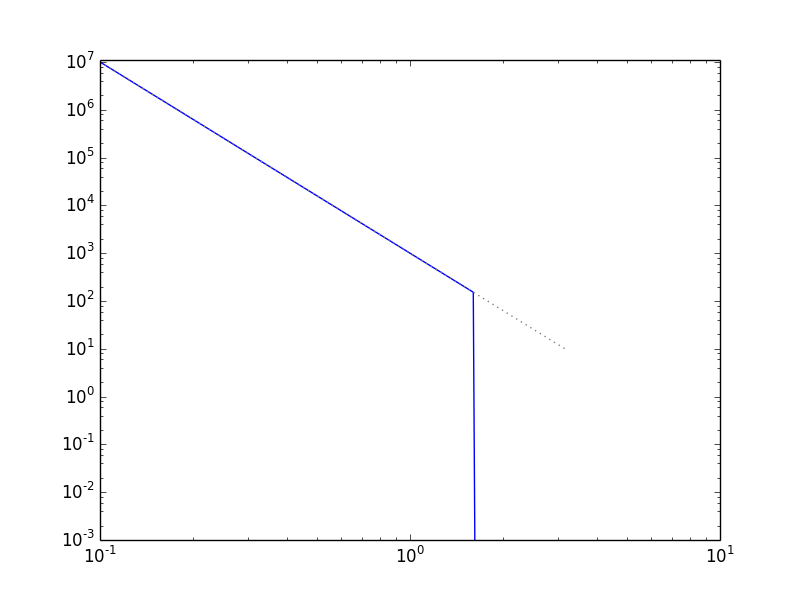
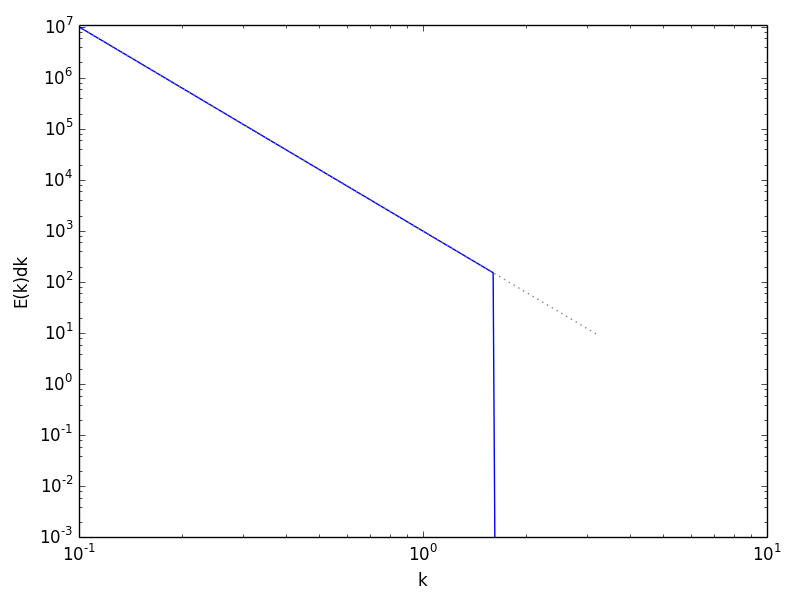
more notes

diff --git a/overview.tex b/overview.tex
@@ -17,6 +17,7 @@
 \usepackage{sectsty}
 \allsectionsfont{\sffamily}
 
+\usepackage{graphicx}
 
 
 \begin{document}
@@ -119,16 +120,38 @@ P \sim k^{-\eta}
 This is accomplished by setting the amplitude of each mode to yield
 this power.  Our function is:
 \begin{equation}
-\phi(x) = \sum_{m=1}^{N_\mathrm{modes}} a_m \sin \left ( \frac{2\pi m x}{L}\right )
+f(x) = \sum_{m=1}^{N_\mathrm{modes}} a_m \sin \left ( \frac{2\pi m x}{L}\right )
 \end{equation}
 where $L$ is the width of the physical domain, and 
 \begin{equation}
 a_m = \left (A_0 k^{-\eta} \right )^{1/2}
 \end{equation}
+This function is shown in Figure~\ref{fig:phi1d}.
+
+\begin{figure}[t]
+\centering
+\includegraphics[width=0.5\linewidth]{phi_1d}
+\begin{minipage}[b]{0.45\linewidth}
+\caption{\label{fig:phi1d} The real-space, one-dimensional function $f(x)$.}
+\end{minipage}
+\end{figure}
+
+We then transform this function, denoting the transform as $\mathcal{F}(k)$.  Plotting
+$|\mathcal{F}(k)|^2$ vs.\ $k$ gives the power spectrum.  Figure~\ref{fig:ps1d} shows
+the result, together with the expected power-law scaling, $P$, shown as the 
+dashed line.
+
+\begin{figure}[t]
+\centering
+\includegraphics[width=0.5\linewidth]{ps1d}
+\begin{minipage}[b]{0.45\linewidth}
+\caption{\label{fig:ps1d} The power spectrum of $f(x)$.}
+\end{minipage}
+\end{figure}
 
 
-5We then transform this function, denoting the transform as $\Phi(k)$.  Plotting
-$\Phi(k)$ vs.\ $k$ gives the power spectrum.  See {\tt ps1d.py}.
+
+See {\tt ps1d.py} for the implementation of this test.
 
 
 
@@ -148,10 +171,7 @@ write $dS = 4\pi k^2 dk$ and integrate along radial $|\vec{k}|$.
 Again, to test the algorithm, we define a test function and set the power at
 different wavenumbers {\em in physical space}, and then do the transform
 and power spectrum to see if we get the expected result.  We will design
-our function to have the same scaling as the 1-d case,
-\begin{equation}
-P \sim k^{-\eta} \nonumber
-\end{equation}
+our function to have the same scaling as the 1-d case, $P \sim k^{-\eta}$.
 Our test function
 is:
 \begin{equation}

diff --git a/ps1d.py b/ps1d.py
@@ -42,6 +42,19 @@ for m in range(1,modes+1):
 
 
 #---------------------------------------------------------------------------
+# plot the real-space function
+#---------------------------------------------------------------------------
+
+plt.plot(x, phi)
+plt.xlabel(r"$x$")
+plt.ylabel(r"$f(x)$")
+
+plt.tight_layout()
+plt.savefig("phi_1d.png")
+plt.savefig("phi_1d.eps")
+
+
+#---------------------------------------------------------------------------
 # now do the Fourier transform
 #---------------------------------------------------------------------------
 phi_hat = np.fft.fft(phi)
@@ -76,6 +89,21 @@ kx = kx*N/L
 
 
 #---------------------------------------------------------------------------
+# plot the transformed function
+#---------------------------------------------------------------------------
+
+plt.clf()
+
+plt.plot(kx, np.abs(phi_hat))
+plt.xlabel(r"$k$")
+plt.ylabel(r"$|\mathcal{F}(k)|$")
+
+plt.tight_layout()
+plt.savefig("phihat_1d.png")
+plt.savefig("phihat_1d.eps")
+
+
+#---------------------------------------------------------------------------
 # plot the power spectrum
 #---------------------------------------------------------------------------
 
@@ -93,6 +121,11 @@ print "maximum E = {} at k = {}".format(Emax, kmax)
 plt.loglog(kx, Emax*(kx/kmax)**index, ls=":", color="0.5")
 plt.ylim(1.e-10*Emax, 1.1*Emax)
 
+plt.xlabel("k")
+plt.ylabel("E(k)dk")
+
+plt.tight_layout()
 plt.savefig("ps1d.png")
+plt.savefig("ps1d.eps")
 
 
